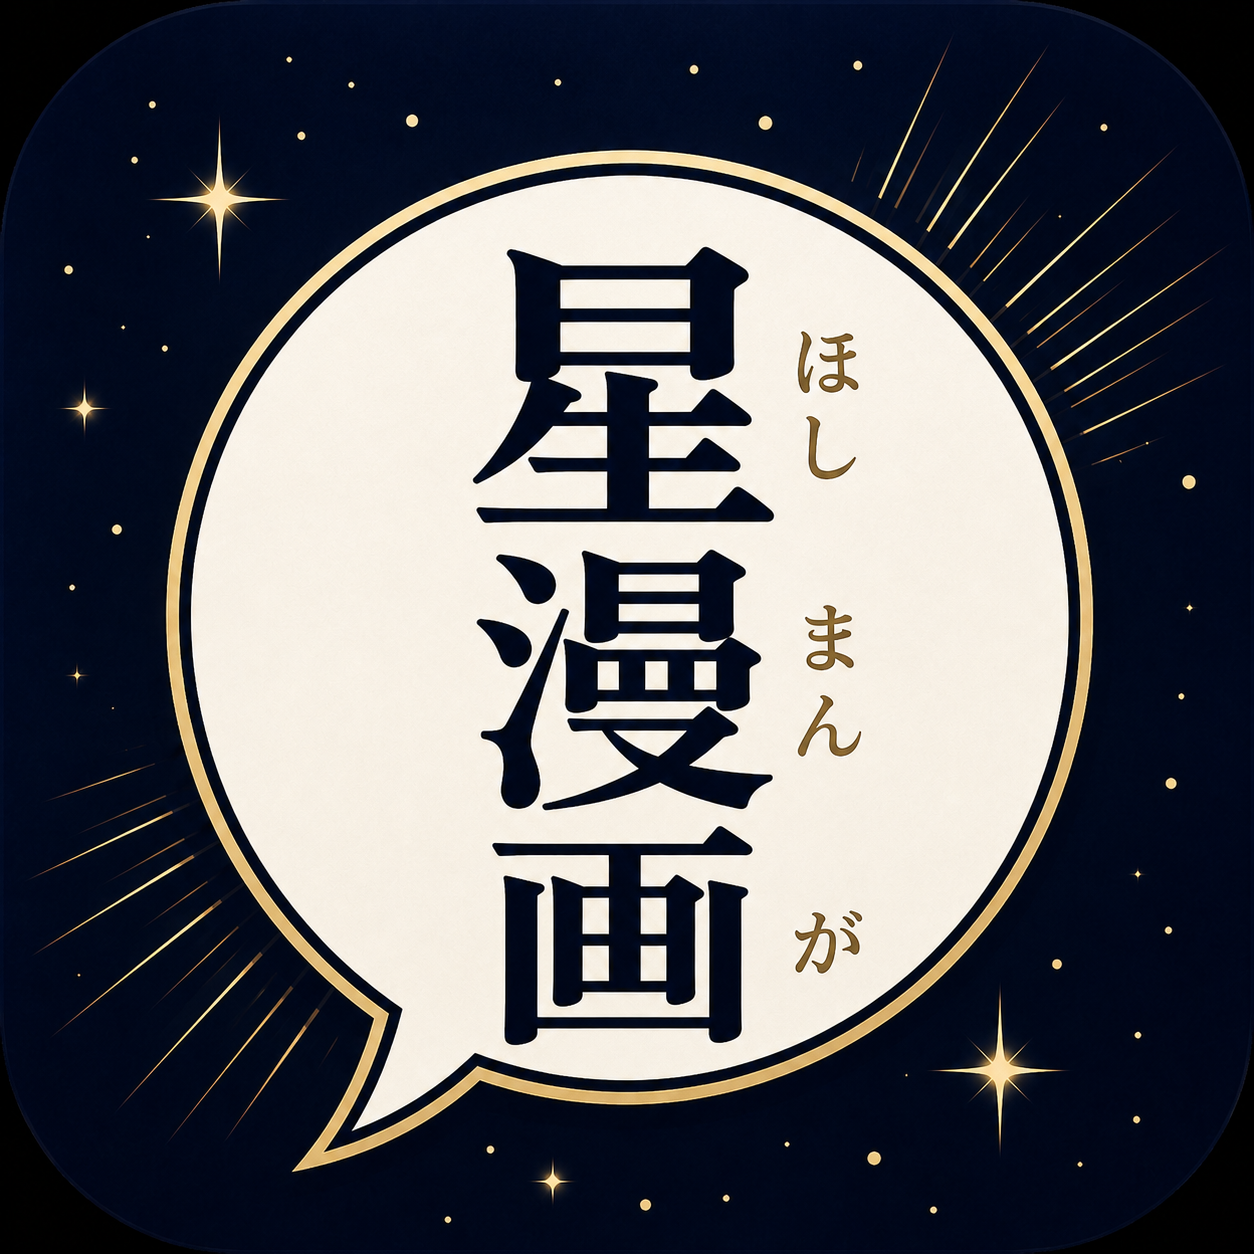
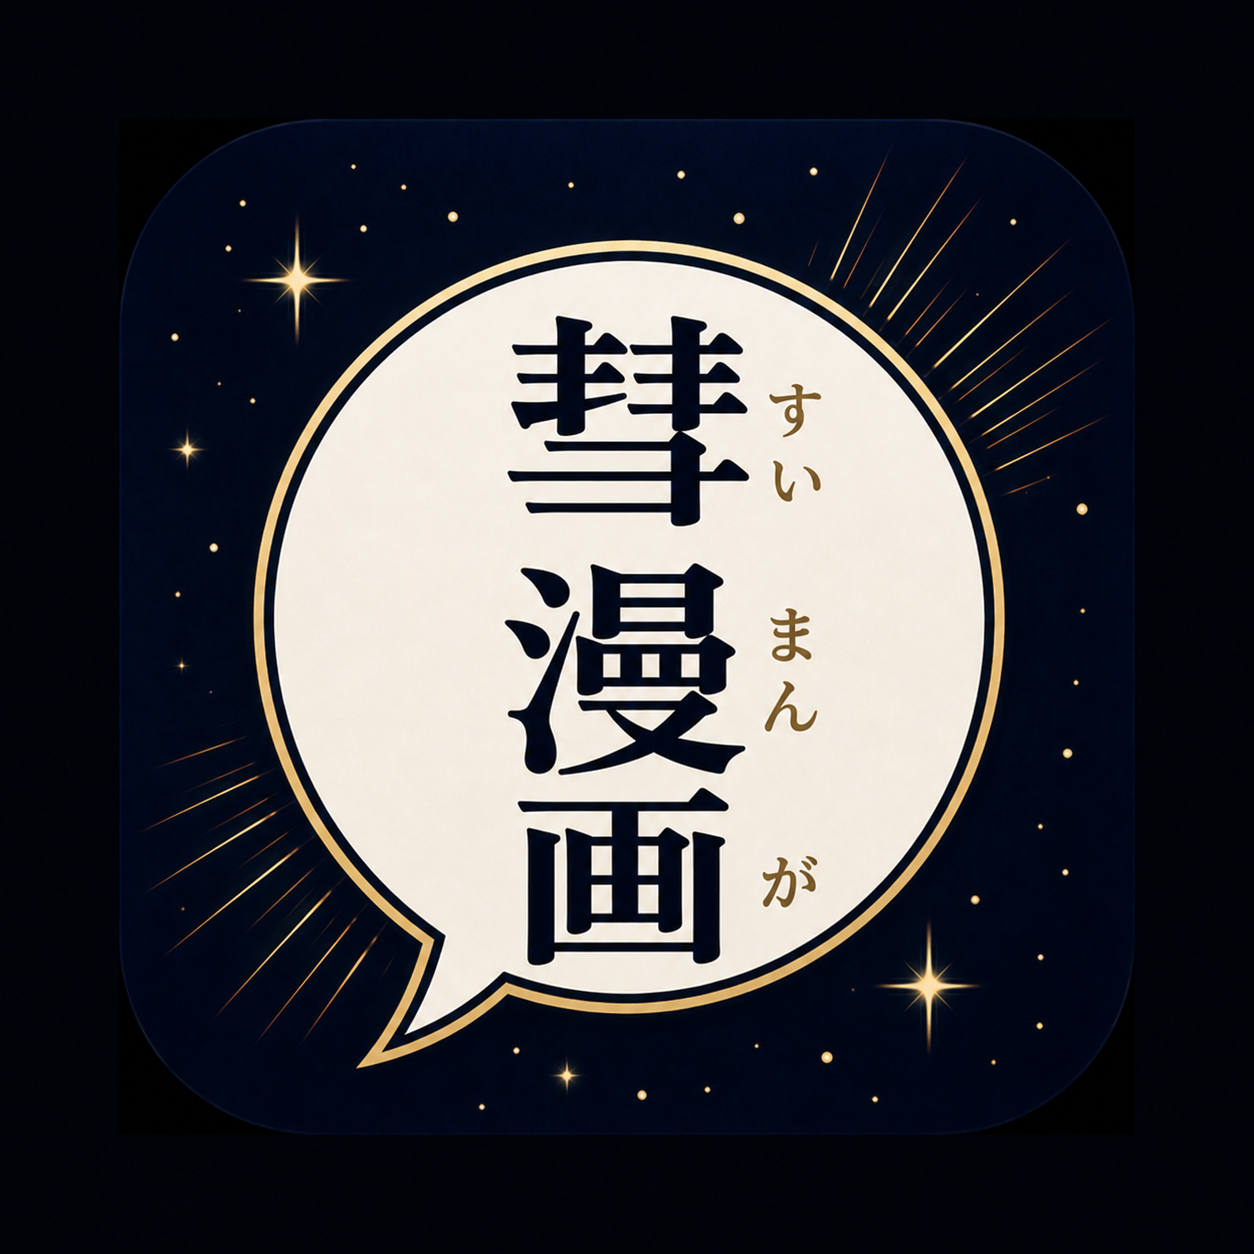
feat: rebrand to Sui Manga Reader + fix high-bubble action buttons
Rename the display name from "Hoshi Manga" to "Sui Manga Reader" (彗漫画)
and swap the launcher icon, while keeping the internal identity frozen so
existing installs update in place with no data loss.

Display-only changes:
- app_name + user-facing strings (en + zh-rCN), Gradle launcher labels,
  rootProject.name, About/Settings/diagnostics text, saved-image folder
- Launcher icon foregrounds regenerated from new artwork; icon source
  updated; adaptive background stays #010309
- README, CHANGELOG, GitHub release title

Intentionally unchanged for update/data compatibility:
- applicationId/namespace moe.antimony.hoshi, .hoshi backup format,
  FileProvider authority, notification channels
- In-app updater asset name Hoshi-Manga-v{ver}.apk, kept in lockstep
  across GitHubReleaseUpdateRepository, release.py, and CI
- Upstream credit to Hoshi Reader / HuangAntimony / Manhhao

Reader fix:
- Action buttons (ChatGPT + copy) on a revealed OCR bubble flip below the
  bubble when it sits too high for the row to fit above the visible area
  (MangaPageHtml.updateActionPlacement), so they stay tappable when the
  page is pinch-zoomed near the top.

diff --git a/app/src/main/java/moe/antimony/hoshi/features/mangareader/MangaPageHtml.kt b/app/src/main/java/moe/antimony/hoshi/features/mangareader/MangaPageHtml.kt
@@ -321,6 +321,16 @@ internal object MangaPageHtml {
         .ocr-box.revealed .ocr-actions {
           display: flex;
         }
+        /* When a revealed bubble sits high enough that the action row would be clipped past
+           the top of the viewport (and so be unreachable), the tap handler adds
+           `.actions-below`, which drops the row just *below* the bubble's bottom-right corner
+           instead of floating it above the top-right. See `updateActionPlacement`. */
+        .ocr-box.actions-below .ocr-actions {
+          top: 100%;
+          bottom: auto;
+          margin-top: 3px;
+          margin-bottom: 0;
+        }
         .ocr-action-btn {
           box-sizing: border-box;
           width: 1.7em;
@@ -528,6 +538,34 @@ internal object MangaPageHtml {
                 window.hoshiSelection.clearSelection();
               }
             },
+            // The action row (ChatGPT + copy) normally floats just *above* the bubble's
+            // top-right corner. For a bubble near the top of the *visible* area that row
+            // would be clipped off the top and be impossible to tap, so flip it to sit just
+            // *below* the bubble instead. Measures after reveal (the read forces a reflow)
+            // and toggles `.actions-below`.
+            //
+            // The page itself never scrolls (html/body are overflow:hidden), so a box's
+            // layout rect is fixed; panning a pinch-zoomed page moves the *visual* viewport,
+            // not the layout. What decides whether the row-above is on-screen is therefore the
+            // visual viewport's top edge, not layout y=0. getBoundingClientRect().top and
+            // visualViewport.offsetTop are both in layout CSS px, so they compare directly;
+            // when unzoomed offsetTop is 0 and this reduces to "is the bubble within a row's
+            // height of the top".
+            updateActionPlacement: function(box) {
+              if (!box) return;
+              var actions = box.querySelector('.ocr-actions');
+              if (!actions) return;
+              var actionsHeight = actions.offsetHeight || 26;
+              var margin = 3;
+              var vv = window.visualViewport;
+              var viewTop = vv && typeof vv.offsetTop === 'number' ? vv.offsetTop : 0;
+              var boxTop = box.getBoundingClientRect().top;
+              if (boxTop - actionsHeight - margin < viewTop) {
+                box.classList.add('actions-below');
+              } else {
+                box.classList.remove('actions-below');
+              }
+            },
             // Two artwork glyphs of the same drawn size must reveal at the same OCR
             // text size — independent of how many characters fit beside them in the
             // bubble. The parser's clamp gives that property: it uses mokuro's
@@ -670,6 +708,7 @@ internal object MangaPageHtml {
                   window.hoshiManga.tryWrapFallback(box);
                   box.classList.add('revealed');
                   box.setAttribute('aria-pressed', 'true');
+                  window.hoshiManga.updateActionPlacement(box);
                 }
                 // Default two-tap mode: first tap on an unrevealed bubble just reveals
                 // (so the action buttons surface without the dictionary popup covering

diff --git a/app/src/main/java/moe/antimony/hoshi/features/update/AboutView.kt b/app/src/main/java/moe/antimony/hoshi/features/update/AboutView.kt
@@ -228,7 +228,7 @@ fun AboutScreen(
                 }
             }
             // ---- Attribution / credits card ----
-            // Hoshi Manga is a fork of HuangAntimony's Android EPUB reader, which is
+            // Sui Manga Reader is a fork of HuangAntimony's Android EPUB reader, which is
             // itself a recreation of Manhhao's web/iOS Hoshi Reader. Per GPLv3's
             // conspicuous-notice requirement, surface both upstreams + the license +
             // a short list of the open-source libraries the manga reading flow leans
@@ -242,7 +242,7 @@ fun AboutScreen(
                         )
                         Spacer(Modifier.height(12.dp))
                         Text(
-                            text = "Hoshi Manga is a manga-focused fork of the original " +
+                            text = "Sui Manga Reader is a manga-focused fork of the original " +
                                 "Hoshi Reader project. Huge thanks to the upstream maintainers " +
                                 "and to the open-source ecosystem this reader builds on:",
                             style = MaterialTheme.typography.bodyMedium,
@@ -305,7 +305,7 @@ fun AboutScreen(
                         )
                         Spacer(Modifier.height(4.dp))
                         Text(
-                            text = "Hoshi Manga is licensed under the GNU General Public " +
+                            text = "Sui Manga Reader is licensed under the GNU General Public " +
                                 "License, version 3. Source code, license terms, and full " +
                                 "third-party attribution are available on GitHub.",
                             style = MaterialTheme.typography.bodyMedium,

diff --git a/app/src/main/java/moe/antimony/hoshi/features/sync/GoogleCloudOAuthConfiguration.kt b/app/src/main/java/moe/antimony/hoshi/features/sync/GoogleCloudOAuthConfiguration.kt
@@ -16,7 +16,7 @@ internal object GoogleCloudOAuthConfiguration {
         "Open Google Auth Platform -> Clients in the $googleCloudConsoleLinkLabel, click CREATE CLIENT, and select application type TVs and Limited Input devices. If your console still shows the older navigation, use APIs & Services -> Credentials -> Create Credentials -> OAuth client ID.",
         "Paste that client ID and client secret here. Do not create an Android OAuth client for this flow.",
         "Press Connect Google Drive, open the verification URL, and enter the displayed device code.",
-        "If authorization has trouble while Hoshi is in the background, open the $googleDeviceLinkLabel on another phone or computer and enter the device code shown here.",
+        "If authorization has trouble while Sui Manga Reader is in the background, open the $googleDeviceLinkLabel on another phone or computer and enter the device code shown here.",
         "Authorize the same Google Account whose Drive contains the ッツ sync folder.",
     )
 

diff --git a/app/src/main/java/moe/antimony/hoshi/features/diagnostics/ProcessExitDiagnostics.kt b/app/src/main/java/moe/antimony/hoshi/features/diagnostics/ProcessExitDiagnostics.kt
@@ -53,7 +53,7 @@ data class ProcessExitDiagnosticsReport(
     val records: List<ProcessExitRecord>,
 ) {
     fun toShareText(): String = buildString {
-        appendLine("Hoshi Diagnostics")
+        appendLine("Sui Manga Reader Diagnostics")
         appendLine("Package: $packageName")
         appendLine("Version: $versionName ($versionCode)")
         appendLine("Android SDK: $sdkInt")
@@ -186,7 +186,7 @@ internal fun saveCapturedCrashDiagnostic(
     val file = File(diagnosticsDir, "crash-$timestampMillis.txt")
     file.writeText(
         buildString {
-            appendLine("Captured Hoshi crash")
+            appendLine("Captured Sui Manga Reader crash")
             appendLine("Time: ${Instant.ofEpochMilli(timestampMillis)}")
             appendLine("Package: $packageName")
             appendLine("Version: $versionName ($versionCode)")

diff --git a/app/src/main/java/moe/antimony/hoshi/features/reader/ReaderFullscreenImageViewer.kt b/app/src/main/java/moe/antimony/hoshi/features/reader/ReaderFullscreenImageViewer.kt
@@ -312,7 +312,7 @@ private fun saveReaderImage(context: Context, image: ReaderFullscreenImage) {
         put(MediaStore.Images.Media.DISPLAY_NAME, name)
         put(MediaStore.Images.Media.MIME_TYPE, image.resource.mediaType)
         if (Build.VERSION.SDK_INT >= Build.VERSION_CODES.Q) {
-            put(MediaStore.Images.Media.RELATIVE_PATH, "${Environment.DIRECTORY_PICTURES}/Hoshi Reader")
+            put(MediaStore.Images.Media.RELATIVE_PATH, "${Environment.DIRECTORY_PICTURES}/Sui Manga Reader")
             put(MediaStore.Images.Media.IS_PENDING, 1)
         }
     }

diff --git a/app/src/main/java/moe/antimony/hoshi/features/settings/AdvancedSettingsView.kt b/app/src/main/java/moe/antimony/hoshi/features/settings/AdvancedSettingsView.kt
@@ -146,7 +146,7 @@ fun AdvancedSettingsView(
             }
             item {
                 Text(
-                    text = "Hoshi Manga ${moe.antimony.hoshi.BuildConfig.VERSION_NAME} · " +
+                    text = "Sui Manga Reader ${moe.antimony.hoshi.BuildConfig.VERSION_NAME} · " +
                         moe.antimony.hoshi.BuildConfig.GIT_SHA,
                     style = MaterialTheme.typography.bodySmall,
                     color = colorScheme.onSurfaceVariant,

diff --git a/app/src/main/java/moe/antimony/hoshi/importing/ImportFileType.kt b/app/src/main/java/moe/antimony/hoshi/importing/ImportFileType.kt
@@ -75,7 +75,7 @@ data class ImportFileType(
         )
 
         val HoshiBackup = ImportFileType(
-            description = "Hoshi backup",
+            description = "backup",
             extensions = listOf("hoshi"),
             mimeTypes = arrayOf("application/octet-stream", "application/zip", "*/*"),
             unsupportedMessageRes = R.string.import_select_hoshi_backup,

diff --git a/release.py b/release.py
@@ -1,5 +1,5 @@
 #!/usr/bin/env python3
-"""Cut a Hoshi Reader release.
+"""Cut a Sui Manga Reader release.
 
 Bumps the version, builds the debug-signed release APK, commits, tags, pushes,
 and publishes a GitHub Release with the APK attached — every step that was

diff --git a/README.md b/README.md
@@ -1,6 +1,6 @@
 <div align="center">
 
-# Hoshi Manga
+# Sui Manga Reader
 
 ![Platform](https://img.shields.io/badge/platform-Android-lightgrey)
 ![License](https://img.shields.io/badge/license-GPLv3-blue)
@@ -17,7 +17,7 @@ translation, and an e-ink reading mode.
 
 ## Fork &amp; attribution
 
-**Hoshi Manga is a fork** of [HuangAntimony / Hoshi-Reader-Android](https://github.com/HuangAntimony/Hoshi-Reader-Android),
+**Sui Manga Reader is a fork** of [HuangAntimony / Hoshi-Reader-Android](https://github.com/HuangAntimony/Hoshi-Reader-Android),
 which is itself a native Android recreation of [Manhhao / Hoshi-Reader](https://github.com/Manhhao/Hoshi-Reader)
 (the original Hoshi Reader web + iOS project).
 
@@ -100,7 +100,7 @@ your own signing key, set `ANDROID_KEYSTORE_FILE`, `ANDROID_KEYSTORE_PASSWORD`,
 
 ## Privacy
 
-Hoshi Manga stores imported manga, dictionaries, fonts, reading progress, ChatGPT
+Sui Manga Reader stores imported manga, dictionaries, fonts, reading progress, ChatGPT
 history, and settings **locally in app storage**. No telemetry, no analytics.
 
 - **ChatGPT integration** is opt-in: you provide your own OpenAI API key, and the app
@@ -114,7 +114,7 @@ history, and settings **locally in app storage**. No telemetry, no analytics.
 
 Distributed under the **GNU General Public License v3.0**. See [LICENSE](LICENSE).
 
-Hoshi Manga, like the upstream Hoshi Reader projects it forks from, is free software.
+Sui Manga Reader, like the upstream Hoshi Reader projects it forks from, is free software.
 Source code, license terms, and full third-party attribution are available in this repo
 and in **Settings → About** inside the app.
 

diff --git a/docs/TODO.md b/docs/TODO.md
@@ -172,7 +172,7 @@ For settings/navigation changes, verify settings controls update immediately and
 
 For dark-theme cold-start regressions, use emulator screen recording with the App Appearance theme set to Dark and confirm no light `No Books` app frame appears before the bookshelf loads.
 
-For build label regressions, verify build variant manifest labels override localized app name resources: release builds keep the launcher label `Hoshi Reader` and debug builds show `Hoshi Debug` on English and Simplified Chinese devices.
+For build label regressions, verify build variant manifest labels override localized app name resources: release builds keep the launcher label `Sui Manga Reader` and debug builds show `Sui Manga Reader Debug` on English and Simplified Chinese devices.
 
 For bookshelf tab-switch regressions, use real-device screen recording to confirm cover placeholders do not flash white when returning to Books from the bottom tab bar.
 

diff --git a/docs/CHANGELOG.md b/docs/CHANGELOG.md
@@ -1,11 +1,17 @@
 # Changelog
 
-All notable user-visible changes to Hoshi Manga (a manga-only fork of
+All notable user-visible changes to Sui Manga Reader (a manga-only fork of
 [HuangAntimony / Hoshi-Reader-Android](https://github.com/HuangAntimony/Hoshi-Reader-Android))
 are documented here. The format follows Keep a Changelog and release sections use
 Semantic Versioning.
 
 ## [Unreleased]
+
+### Changed
+- Renamed the app to **Sui Manga Reader** (kanji: 彗漫画) with a new launcher icon. The
+  application id, `.hoshi` backup format, FileProvider authority, and in-app updater asset
+  naming are all unchanged, so existing installs upgrade in place and keep their data.
+  Credit to the upstream Hoshi Reader projects (HuangAntimony, Manhhao) is unchanged.
 
 ## [v0.9.3] - 2026-06-04
 
